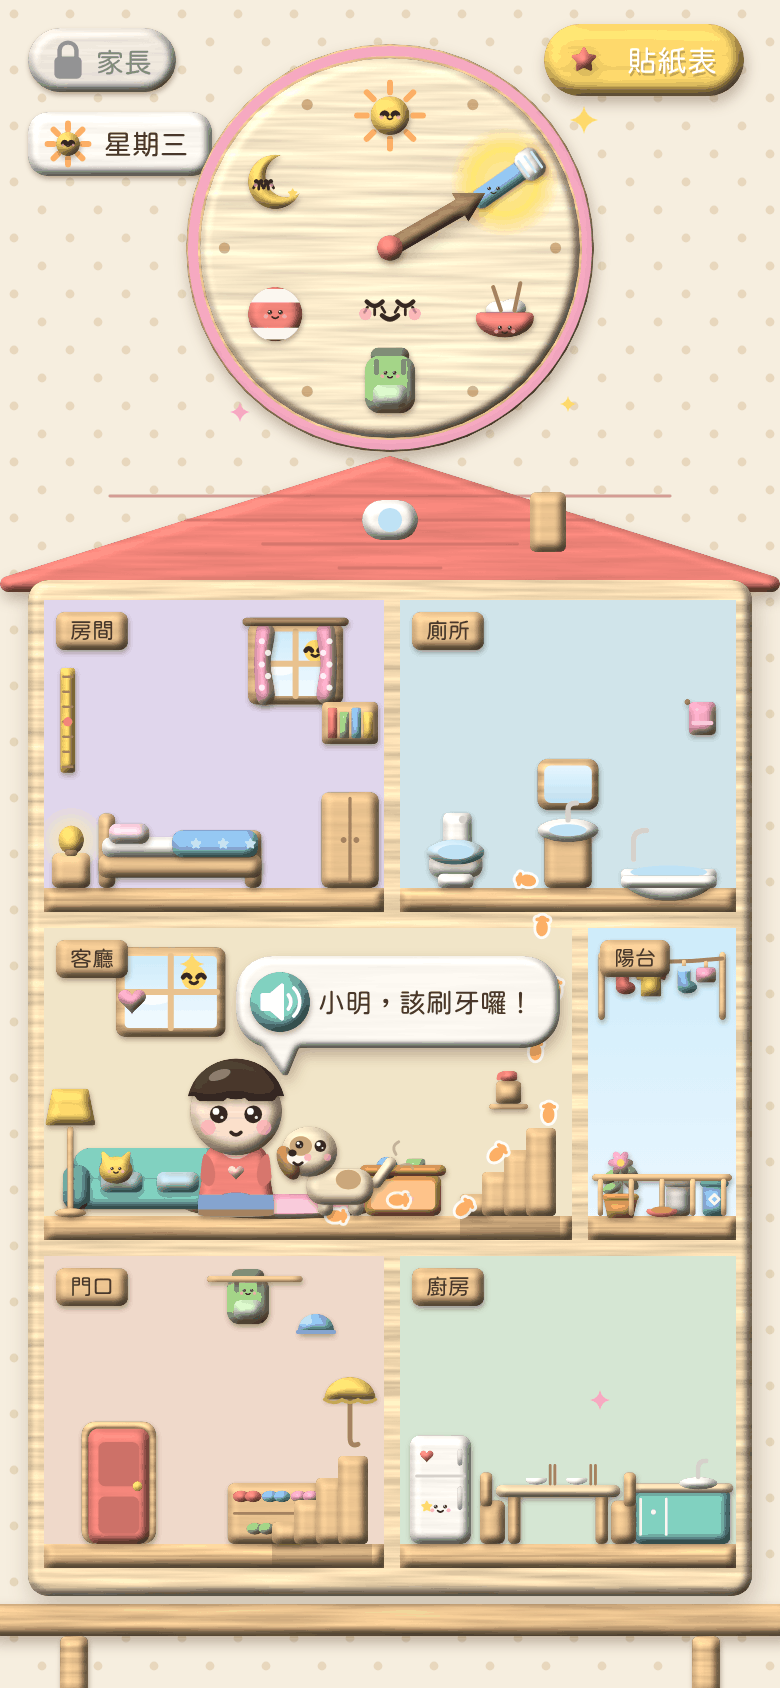
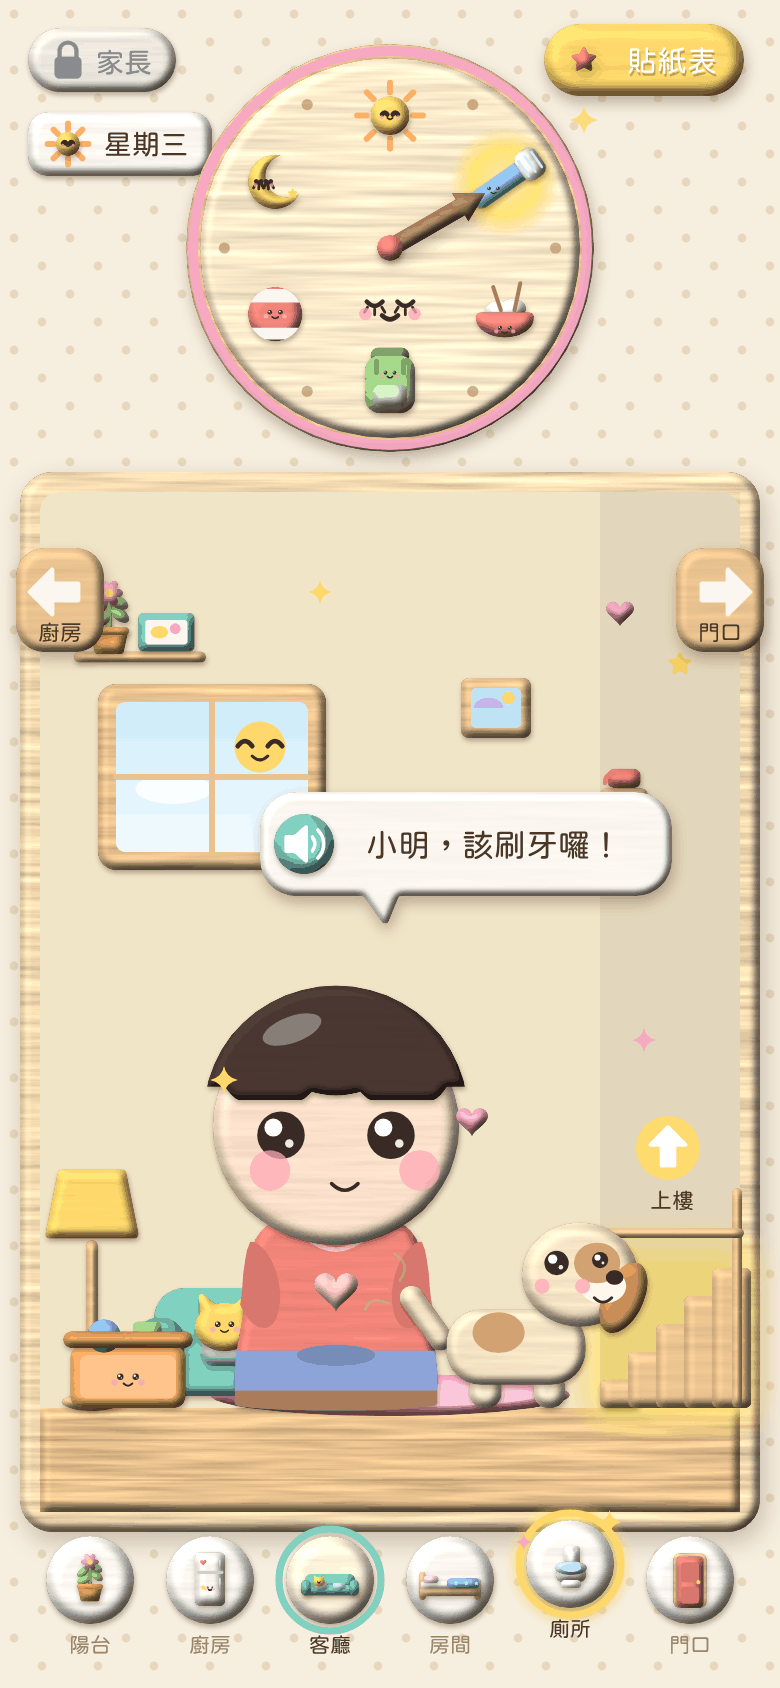
Mockups: one room fills the screen, with doors, arrows and a room strip
Claude-Session: https://claude.ai/code/session_01BbiyifD8DbrBNFwMqjGuML

diff --git a/docs/mockups/make_mockups.py b/docs/mockups/make_mockups.py
@@ -11,15 +11,17 @@ jf open-huninn from a sibling app's checkout.
                        box, a window with the morning sun) in three styles:
                        A 木頭玩具屋風, B 立體書風, C 色鉛筆塗畫風
     1_取名選角色.png   first launch: the name box, hair / skin / shirt / buddy choices, the doll updates
-    2_客廳和時鐘.png   the home: the dollhouse with five rooms, the clock says 刷牙, footprints to the bathroom
+    2_客廳和時鐘.png   the home: the living room fills the screen under the clock (one room at a time), the clock says 刷牙,
+                       the stairs and the 廁所 button glow; a strip of six room buttons at the bottom
     3_調時間.png       the clock enlarged: a finger drags the hand from 牙刷 to 碗
     4_刷牙.png         bathroom mini-game: brushing the big open mouth, bubbles as progress
-    5_想上廁所.png     the random need: the child squirms, a water drop, the way to the toilet lights up
+    5_想上廁所.png     the random need: the child squirms, a water drop, footprints to the glowing stairs
     6_吃飯.png         kitchen: a plate with four slots, foods to drag in, the puppy's own bowl
-    7_睡覺.png         bedroom at night: the blanket is pulled up, the rest of the house is dark
+    7_睡覺.png         bedroom at night: the blanket is pulled up; a small inset shows the whole house dark
     8_貼紙表.png       the good-habits sticker chart and the puppy's reward
     9_家長模式.png     parents' settings
-    contact_sheet.png  screens 1-9 small, with titles
+    10_小街 11_幼兒園 12_超市 13_陽台家事 14_發生事情   the street, the kindergarten, the supermarket, chores, events
+    contact_sheet.png  screens 1-14 small, with titles
 
 Style A 「木頭玩具屋風」 (screens 1-9) is a wooden dollhouse. Every piece goes through one SVG filter
 (wood_f): fractal noise stretched along the grain darkens and lightens the paint in streaks, a blurred
@@ -1346,23 +1348,134 @@ def render(html, out, w, h, scale):
         im.quantize(colors=256, method=Image.Quantize.MEDIANCUT, kmeans=2, dither=Image.Dither.FLOYDSTEINBERG).save(out, optimize=True)
 
 
-# ================================================================ SCREEN 2: the home and the clock
-def screen_home():
+# ================================================================ ONE ROOM FILLS THE SCREEN (screens 2, 3, 5)
+ROOM_STRIP = [("陽台", lambda: place(0, 10, .5, plant)), ("廚房", lambda: place(0, 13, .42, fridge)), ("客廳", lambda: place(0, 9, .3, sofa, 84, TEAL)),
+              ("房間", lambda: place(0, 10, .32, bed, 96)), ("廁所", lambda: place(0, 12, .5, toilet)), ("門口", lambda: place(0, 14, .38, door))]
+
+
+def room_strip(y=772, selected="客廳", glow=None, scale=1.0, cx=195, labels=True):
+    """The row of little room buttons at the bottom: tap one to go there; the one to go to glows and bounces."""
+    o = []
+    gap = 60 * scale
+    r = 22 * scale
+    x0 = cx - 2.5 * gap
+    for i, (name, fn) in enumerate(ROOM_STRIP):
+        x = x0 + i * gap
+        yy = y - (8 * scale if name == glow else 0)
+        if name == glow:
+            o.append(f'<circle cx="{x:.1f}" cy="{yy:.1f}" r="{r * 1.5:.1f}" fill="{rg([(0, "#FFF4B0"), (.55, "#FFE26B", .9), (1, "#FFE26B", 0)])}"/>')
+        o.append(wbtn(x, yy, r, CREAM if name == selected else WHITE, sh=1 if name != glow else 2))
+        o.append(place(x, yy, scale, fn))
+        if name == selected:
+            o.append(f'<circle cx="{x:.1f}" cy="{yy:.1f}" r="{r + 3.5 * scale:.1f}" fill="none" stroke="{TEAL}" stroke-width="{3.5 * scale:.1f}"/>')
+        if name == glow:
+            o.append(f'<circle cx="{x:.1f}" cy="{yy:.1f}" r="{r + 3.5 * scale:.1f}" fill="none" stroke="{YEL}" stroke-width="{3.5 * scale:.1f}"/>')
+            o.append(sparkle(x + r * .9, yy - r * .95, 6 * scale, YEL) + sparkle(x - r * 1.05, yy - r * .5, 4 * scale, PINK))
+        if labels:
+            o.append(tx(x, yy + r + 14 * scale, name, 10.5 * scale, INK if name in (selected, glow) else SOFT))
+    return "".join(o)
+
+
+def edge_arrow(x, y, label, direction=-1):
+    """A wooden tab at the screen's edge: tap to walk to the next room."""
+    o = [paint(R(x - 22, y - 26, 44, 52, 14), WOOD2, sh=2)]
+    o.append(i_arrow(x + direction * 2, y - 4, 1.0, WHITE, 180 if direction < 0 else 0))
+    o.append(tx(x, y + 20, label, 11, INK))
+    return "".join(o)
+
+
+def living_room_big(x=10, y=236, w=370, h=530, sky="morning", rain=False, glow_stairs=False, dimmed=False):
+    """The living room filling the screen: the frame, the wall, the furniture and the stairs on the right."""
+    o = [wood(R(x, y, w, h, 16), WOOD, grain=.45, sh=3)]
+    fy = y + h - 62
+    o.append(f'<rect x="{x + 10}" y="{y + 10}" width="{w - 20}" height="{h - 20}" rx="10" fill="{ROOM_WALL["living"]}"/>')
+    o.append(f'<rect x="{x + 10}" y="{y + 10}" width="{w - 20}" height="{h - 20}" rx="10" fill="#000" opacity=".05" filter="{wood_f(.5, 0, .02)}"/>')
+    o.append(f'<rect x="{x + 10}" y="{fy}" width="{w - 20}" height="{h - 10 - (fy - y)}" fill="{WOOD2}" filter="{wood_f(.5, 0, .05)}"/>')
+    o.append(stroke(f"M{x + 10},{fy + 16} H{x + w - 10} M{x + 10},{fy + 36} H{x + w - 10}", WALNUT, 1, op=.3))
+    o.append(place(x + w * .5, fy - 2, 1.5, rug, 120, PINK))
+    o.append(place(x + 96, y + 190, 1.5, window, 64, 50, sky, False, 0, rain))
+    o.append(place(x + 238, y + 118, 1.25, picture_frame, LILAC))
+    o.append(place(x + 302, y + 182, 1.2, lambda: paint(R(-16, -2, 32, 4, 2), WOOD2) + place(0, -2, 1.0, phone)))
+    o.append(place(x + 130, fy, 1.5, sofa, 84, TEAL))
+    o.append(place(x + 36, fy, 1.5, lamp))
+    o.append(place(x + 54, fy, 1.2, toybox))
+    o.append(place(x + 60, y + 92, 1.1, lambda: paint(R(-30, -2, 60, 5, 2.5), WOOD2) + place(-14, -2, .7, plant) + place(12, -2, .8, storybook)))
+    o.append(heart(x + 300, y + 70, 7, PINK) + flat(star_g(7, x + 330, y + 96), YEL) + sparkle(x + 150, y + 60, 6, YEL))
+    # the stairs up to 房間 and 廁所
+    sx = x + w - 10 - 70
+    if glow_stairs:
+        o.append(f'<rect x="{sx - 8}" y="{fy - 82}" width="86" height="90" rx="12" fill="#FFE26B" opacity=".75" filter="{blur(8)}"/>')
+    o.append(f'<rect x="{sx}" y="{y + 10}" width="70" height="{fy - y - 10}" fill="#000" opacity=".06"/>')
+    o.append(place(sx, fy, 1.4, stairs, True, 5, 10))
+    o.append(paint(R(sx + 66, fy - 110, 5, 110, 2.5), WOOD2, sh=0) + paint(R(sx - 2, fy - 90, 74, 5, 2.5), WOOD2, sh=0))
+    o.append(tx(sx + 36, fy - 100, "上樓", 11, INK))
+    if glow_stairs:
+        o.append(place(sx + 34, fy - 130, 1.0, lambda: f'<circle r="16" fill="{YEL}" opacity=".95"/>' + i_arrow(0, 0, .8, "#FFFFFF", -90)))
+    if dimmed:
+        o.append(f'<rect x="{x}" y="{y}" width="{w}" height="{h}" rx="16" fill="#2A1E16" opacity=".55"/>')
+    return "".join(o)
+
+
+def home_frame(hand=1, sky="morning"):
     o = [wallpaper()]
-    o.append(shelf(802))
-    o.append(lock_chip(14, 14))
-    o.append(sticker_btn(322, 30))
-    o.append(day_chip(14, 56, "星期三", "sun", 92))
-    o.append(clock(195, 124, 92, hand=1))
-    o.append(house(sky="morning"))
-    lx, ly, lw, lh = ROOM_BOX["living"]
-    fy = ly + lh - 12
-    o.append(footprints([(152, fy - 4), (226, fy - 4), (270, fy - 46), (276, ROOMS_Y[0][1] - 10), (248, ROOMS_Y[0][1] - 14)], ORA, 9, .9))
-    o.append(place(118, fy, .82, peg_doll, 0, 0, 0, "smile"))
-    o.append(place(170, fy, .7, puppy, "smile", -1))
-    o.append(say(118, ly + 14, 162, 46, "小明，該刷牙囉！", "down", 140, 13.5))
-    o.append(heart(66, 500, 7, PINK) + sparkle(96, 482, 6, YEL) + sparkle(300, 700, 5, PINK))
-    o.append(sparkle(292, 60, 7, YEL, .9) + sparkle(120, 206, 5, PINK, .9) + sparkle(284, 202, 4, YEL))
+    o.append(lock_chip(14, 14) + sticker_btn(322, 30) + day_chip(14, 56, "星期三", "sun", 92))
+    o.append(clock(195, 124, 92, hand=hand))
+    return o
+
+
+def screen_home():
+    o = home_frame(1)
+    fy = 236 + 530 - 62
+    o.append(living_room_big(glow_stairs=True))
+    o.append(place(168, fy, 2.2, peg_doll, 0, 0, 0, "smile", look=2))
+    o.append(place(258, fy, 1.45, puppy, "smile", 1))
+    o.append(say(130, 396, 206, 52, "小明，該刷牙囉！", "down", 190, 16))
+    o.append(edge_arrow(30, 300, "廚房", -1) + edge_arrow(360, 300, "門口", 1))
+    o.append(heart(236, 560, 8, PINK) + sparkle(112, 540, 7, YEL) + sparkle(322, 520, 6, PINK) + sparkle(292, 60, 7, YEL, .9))
+    o.append(room_strip(790, "客廳", "廁所"))
+    return page("".join(o), "#F6EEDF")
+
+
+# ================================================================ SCREEN 3: turning the clock
+def screen_clock():
+    o = home_frame(1)
+    fy = 236 + 530 - 62
+    o.append(living_room_big())
+    o.append(place(168, fy, 2.2, peg_doll, 0, 0, 0, "smile") + place(258, fy, 1.45, puppy, "smile", 1))
+    o.append(room_strip(790, "客廳", None))
+    o.append(f'<rect width="{W}" height="{H}" fill="#2A1E16" opacity=".55"/>')
+    cx, cy, r = 195, 300, 150
+    o.append(f'<circle cx="{cx}" cy="{cy}" r="{r + 30}" fill="#FFF3C4" opacity=".35" filter="{blur(14)}"/>')
+    o.append(clock(cx, cy, r, hand=2, glow=True, labels=True, isize=1.05, drag_to=12))
+    a0, a1 = math.radians(-30), math.radians(30)
+    rr = r * .5 + 24
+    o.append(f'<path d="M{cx + rr * math.cos(a0):.1f},{cy + rr * math.sin(a0):.1f} A{rr},{rr} 0 0 1 {cx + rr * math.cos(a1):.1f},{cy + rr * math.sin(a1):.1f}" '
+             f'fill="none" stroke="{WHITE}" stroke-width="4" stroke-dasharray="6 7" stroke-linecap="round" opacity=".9"/>')
+    o.append(i_arrow(cx + rr * math.cos(a1) - 2, cy + rr * math.sin(a1) + 10, .8, WHITE, 100))
+    o.append(finger(cx + (r * .5 + 10) * math.cos(math.radians(12)), cy + (r * .5 + 10) * math.sin(math.radians(12)), -20))
+    o.append(paint(R(60, 486, 270, 92, 20), WHITE, sh=2, grain=.05))
+    o.append(place(118, 566, .72, window, 60, 46, "morning") + tx(118, 506, "早上", 12.5, SOFT))
+    o.append(i_arrow(195, 536, 1.1, WOOD2))
+    o.append(place(272, 566, .72, window, 60, 46, "noon") + tx(272, 506, "中午", 12.5, SOFT))
+    o.append(say(40, 606, 310, 56, "要跳到吃早餐嗎？", "up", 195, 19))
+    o.append(wbtn(140, 724, 36, GRN, i_check(140, 724, 1.5, "#FFFFFF")) + tx(140, 782, "好", 15, WHITE))
+    o.append(wbtn(250, 724, 36, GREY, stroke("M238,712 L262,736 M262,712 L238,736", "#FFFFFF", 5)) + tx(250, 782, "不要", 15, WHITE))
+    return page("".join(o), "#F6EEDF")
+
+
+# ================================================================ SCREEN 5: "I need to pee!"
+def screen_pee():
+    o = home_frame(4, "noon")
+    fy = 236 + 530 - 62
+    o.append(living_room_big(sky="noon", glow_stairs=True))
+    o.append(footprints([(214, fy - 6), (262, fy - 6), (300, fy - 10), (324, fy - 30), (350, fy - 56)], ORA, 7, 1.2, glow=True))
+    o.append(place(150, fy, 2.2, peg_doll, 0, 0, 0, "worry", squirm=True))
+    o.append(stroke("M72,596 Q62,612 72,628 M232,596 Q242,612 232,628", "#8A7A6A", 3))
+    o.append(place(214, fy - 222, 1.9, i_drop, 1.0, BLUE))
+    o.append(place(250, fy, 1.4, puppy, "smile", -1))
+    o.append(say(120, 396, 176, 52, "我想尿尿！", "down", 170, 17))
+    o.append(edge_arrow(30, 300, "廚房", -1) + edge_arrow(360, 300, "門口", 1))
+    o.append(room_strip(790, "客廳", "廁所"))
     return page("".join(o), "#F6EEDF")
 
 
@@ -1415,36 +1528,6 @@ def screen_name():
         o.append(tx(x, 676, name, 12.5, INK))
     o.append(wpill(195, 752, 220, 64, GRN, "開始", 26, i_arrow(262, 752, 1.1, "#FFFFFF"), tdx=-18))
     return page("".join(o), "#FBF1E2")
-
-
-# ================================================================ SCREEN 3: turning the clock
-def screen_clock():
-    o = [wallpaper(), shelf(802)]
-    o.append(lock_chip(14, 14) + sticker_btn(322, 30) + day_chip(14, 56, "星期三", "sun", 92))
-    o.append(clock(195, 124, 92, hand=1))
-    o.append(house(sky="morning"))
-    lx, ly, lw, lh = ROOM_BOX["living"]
-    o.append(place(118, ly + lh - 12, .82, peg_doll, 0, 0, 0, "smile") + place(170, ly + lh - 12, .7, puppy, "smile", -1))
-    o.append(f'<rect width="{W}" height="{H}" fill="#2A1E16" opacity=".55"/>')
-    cx, cy, r = 195, 300, 150
-    o.append(f'<circle cx="{cx}" cy="{cy}" r="{r + 30}" fill="#FFF3C4" opacity=".35" filter="{blur(14)}"/>')
-    o.append(clock(cx, cy, r, hand=2, glow=True, labels=True, isize=1.05, drag_to=12))
-    # the hand's way from the toothbrush to the bowl
-    a0, a1 = math.radians(-30), math.radians(30)
-    rr = r * .5 + 24
-    o.append(f'<path d="M{cx + rr * math.cos(a0):.1f},{cy + rr * math.sin(a0):.1f} A{rr},{rr} 0 0 1 {cx + rr * math.cos(a1):.1f},{cy + rr * math.sin(a1):.1f}" '
-             f'fill="none" stroke="{WHITE}" stroke-width="4" stroke-dasharray="6 7" stroke-linecap="round" opacity=".9"/>')
-    o.append(i_arrow(cx + rr * math.cos(a1) - 2, cy + rr * math.sin(a1) + 10, .8, WHITE, 100))
-    o.append(finger(cx + (r * .5 + 10) * math.cos(math.radians(12)), cy + (r * .5 + 10) * math.sin(math.radians(12)), -20))
-    # the window light that goes with the time
-    o.append(paint(R(60, 486, 270, 92, 20), WHITE, sh=2, grain=.05))
-    o.append(place(118, 566, .72, window, 60, 46, "morning") + tx(118, 496 + 10, "早上", 12.5, SOFT))
-    o.append(i_arrow(195, 536, 1.1, WOOD2))
-    o.append(place(272, 566, .72, window, 60, 46, "noon") + tx(272, 506, "中午", 12.5, SOFT))
-    o.append(say(40, 606, 310, 56, "要跳到吃早餐嗎？", "up", 195, 19))
-    o.append(wbtn(140, 724, 36, GRN, i_check(140, 724, 1.5, "#FFFFFF")) + tx(140, 782, "好", 15, WHITE))
-    o.append(wbtn(250, 724, 36, GREY, stroke("M238,712 L262,736 M262,712 L238,736", "#FFFFFF", 5)) + tx(250, 782, "不要", 15, WHITE))
-    return page("".join(o), "#F6EEDF")
 
 
 # ================================================================ SCREEN 4: brushing teeth
@@ -1514,24 +1597,6 @@ def screen_brush():
     o.append(place(70, 762, 1.0, toothpaste))
     o.append(place(320, 762, 1.0, cup, YEL))
     return page("".join(o), "#E4F3F9")
-
-
-# ================================================================ SCREEN 5: "I need to pee!"
-def screen_pee():
-    o = [wallpaper(), shelf(802)]
-    o.append(lock_chip(14, 14) + sticker_btn(322, 30) + day_chip(14, 56, "星期三", "sun", 92))
-    o.append(clock(195, 124, 92, hand=4))
-    o.append(house(sky="noon", dim=("bed", "door", "kitchen", "balcony"), highlight="bath"))
-    lx, ly, lw, lh = ROOM_BOX["living"]
-    fy = ly + lh - 12
-    o.append(footprints([(152, fy - 4), (226, fy - 4), (270, fy - 46), (276, ROOMS_Y[0][1] - 10), (248, ROOMS_Y[0][1] - 14)], ORA, 9, .9, glow=True))
-    o.append(place(118, fy, .82, peg_doll, 0, 0, 0, "worry", squirm=True))
-    o.append(stroke("M86,560 Q80,566 86,572 M150,560 Q156,566 150,572", "#8A7A6A", 2.2))
-    o.append(place(142, fy - 108, 1.0, i_drop, 1.0, BLUE))
-    o.append(place(176, fy, .7, puppy, "smile", -1))
-    o.append(say(150, ly + 10, 132, 46, "我想尿尿！", "down", 170, 14.5))
-    o.append(place(284, ROOMS_Y[0][0] + 20, 1.0, lambda: f'<circle r="16" fill="{YEL}" opacity=".95"/>' + i_arrow(0, 0, .8, "#FFFFFF", 90)))
-    return page("".join(o), "#F6EEDF")
 
 
 # ================================================================ SCREEN 6: mealtime
@@ -2168,7 +2233,7 @@ def living_scene(x, y, w=330, h=240):
     """The living room: the clock on the wall, the child and the puppy, the sofa, the toy box, the morning window.
     Drawn with whatever paint()/wood()/flat()/stroke() do for the current STYLE."""
     o = []
-    fy = y + h - 26
+    fy = y + h - 40
     if STYLE == "paper":
         # the open book under the scene: two pages that tilt towards the spine
         o.append(f'<path d="M{x - 8},{y + h + 10} L{x + w / 2},{y + h + 34} L{x + w + 8},{y + h + 10} L{x + w + 8},{y + h - 50} L{x + w / 2},{y + h - 26} L{x - 8},{y + h - 50}Z" fill="#F6ECDC" stroke="#D9C8B0" stroke-width="1.5"/>')
@@ -2181,6 +2246,7 @@ def living_scene(x, y, w=330, h=240):
     o.append(wood(R(x, y, w, h, 14), WOOD2, grain=.42, sh=2))
     o.append(flat(R(x + 8, y + 8, w - 16, h - 16, 9), wall))
     o.append(flat(R(x + 8, fy, w - 16, h - 8 - (fy - y), 4), floor))
+    o.append(room_strip(y + h - 14, "客廳", "廁所", .5, x + w / 2, labels=False))
     o.append(place(x + 86, y + 76, .95, window, 70, 54, "morning", True, .2))
     o.append(place(x + w - 74, y + 84, .68, clock, 0, 0, 56, 1, False))
     o.append(place(x + 72, fy, 1.05, sofa, 84, TEAL))
